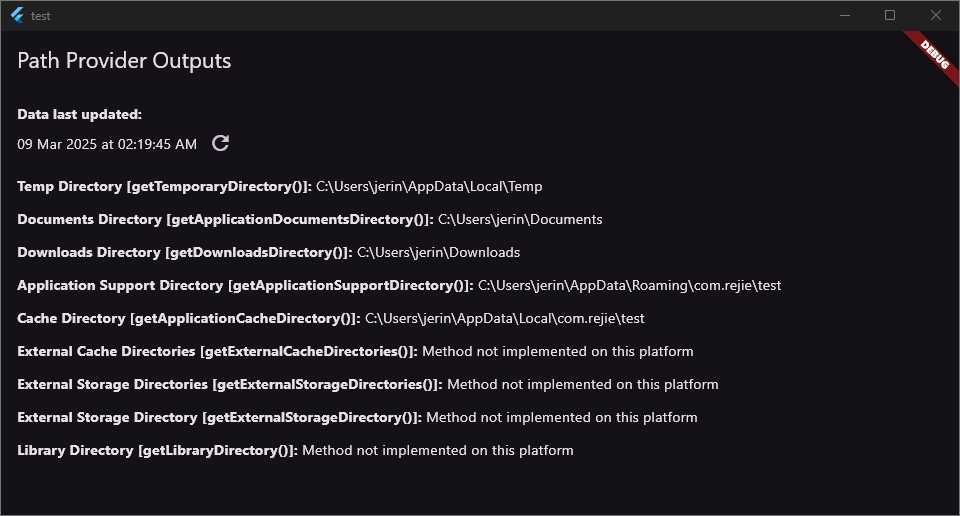
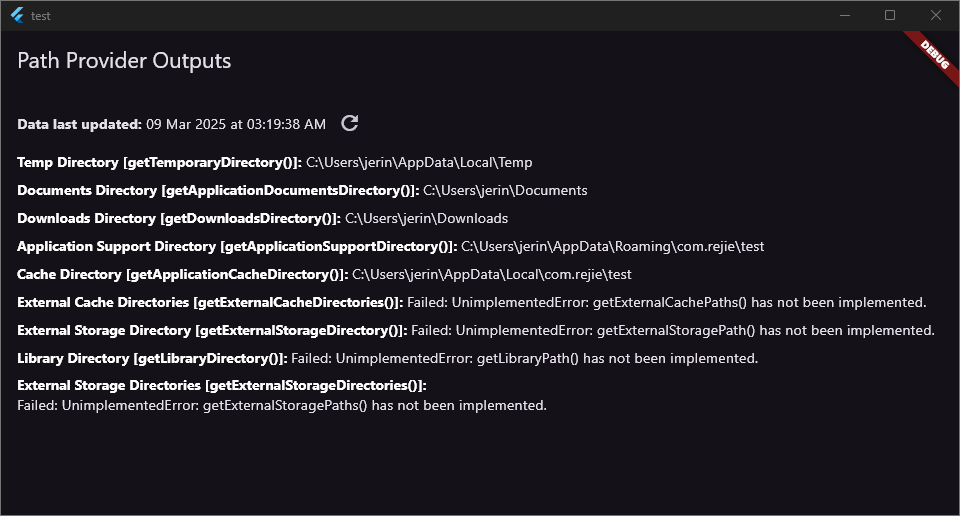
update to use StorageDirectory enum directly in for loop

Changed region(s): [[0.0, 0.2171, 0.9688, 0.8372], [0.0, 0.8682, 0.5938, 0.8992]]

diff --git a/lib/main.dart b/lib/main.dart
@@ -61,23 +61,10 @@ class _MyAppState extends State<MyApp> {
   }
 
   Future<String> _fetchExternalStorageDirectories() async {
-    final types = {
-      'Alarms': StorageDirectory.alarms,
-      'Downloads': StorageDirectory.downloads,
-      'Music': StorageDirectory.music,
-      'Movies': StorageDirectory.movies,
-      'Notifications': StorageDirectory.notifications,
-      'Pictures': StorageDirectory.pictures,
-      'Podcasts': StorageDirectory.podcasts,
-      'Ringtones': StorageDirectory.ringtones,
-      'DCIM': StorageDirectory.dcim,
-      'Documents': StorageDirectory.documents,
-    };
-
     StringBuffer storageDirectories = StringBuffer();
-    for (var entry in types.entries) {
-      final directories = await getExternalStorageDirectories(type: entry.value);
-      storageDirectories.write('${entry.key}: ${directories?.join('\n') ?? 'None'}\n');
+    for(StorageDirectory directory in StorageDirectory.values) {
+      final directories = await getExternalStorageDirectories(type: directory);
+      storageDirectories.write('${directory.name}: ${directories?.join('\n') ?? 'None'}\n');
     }
     return storageDirectories.toString();
   }
